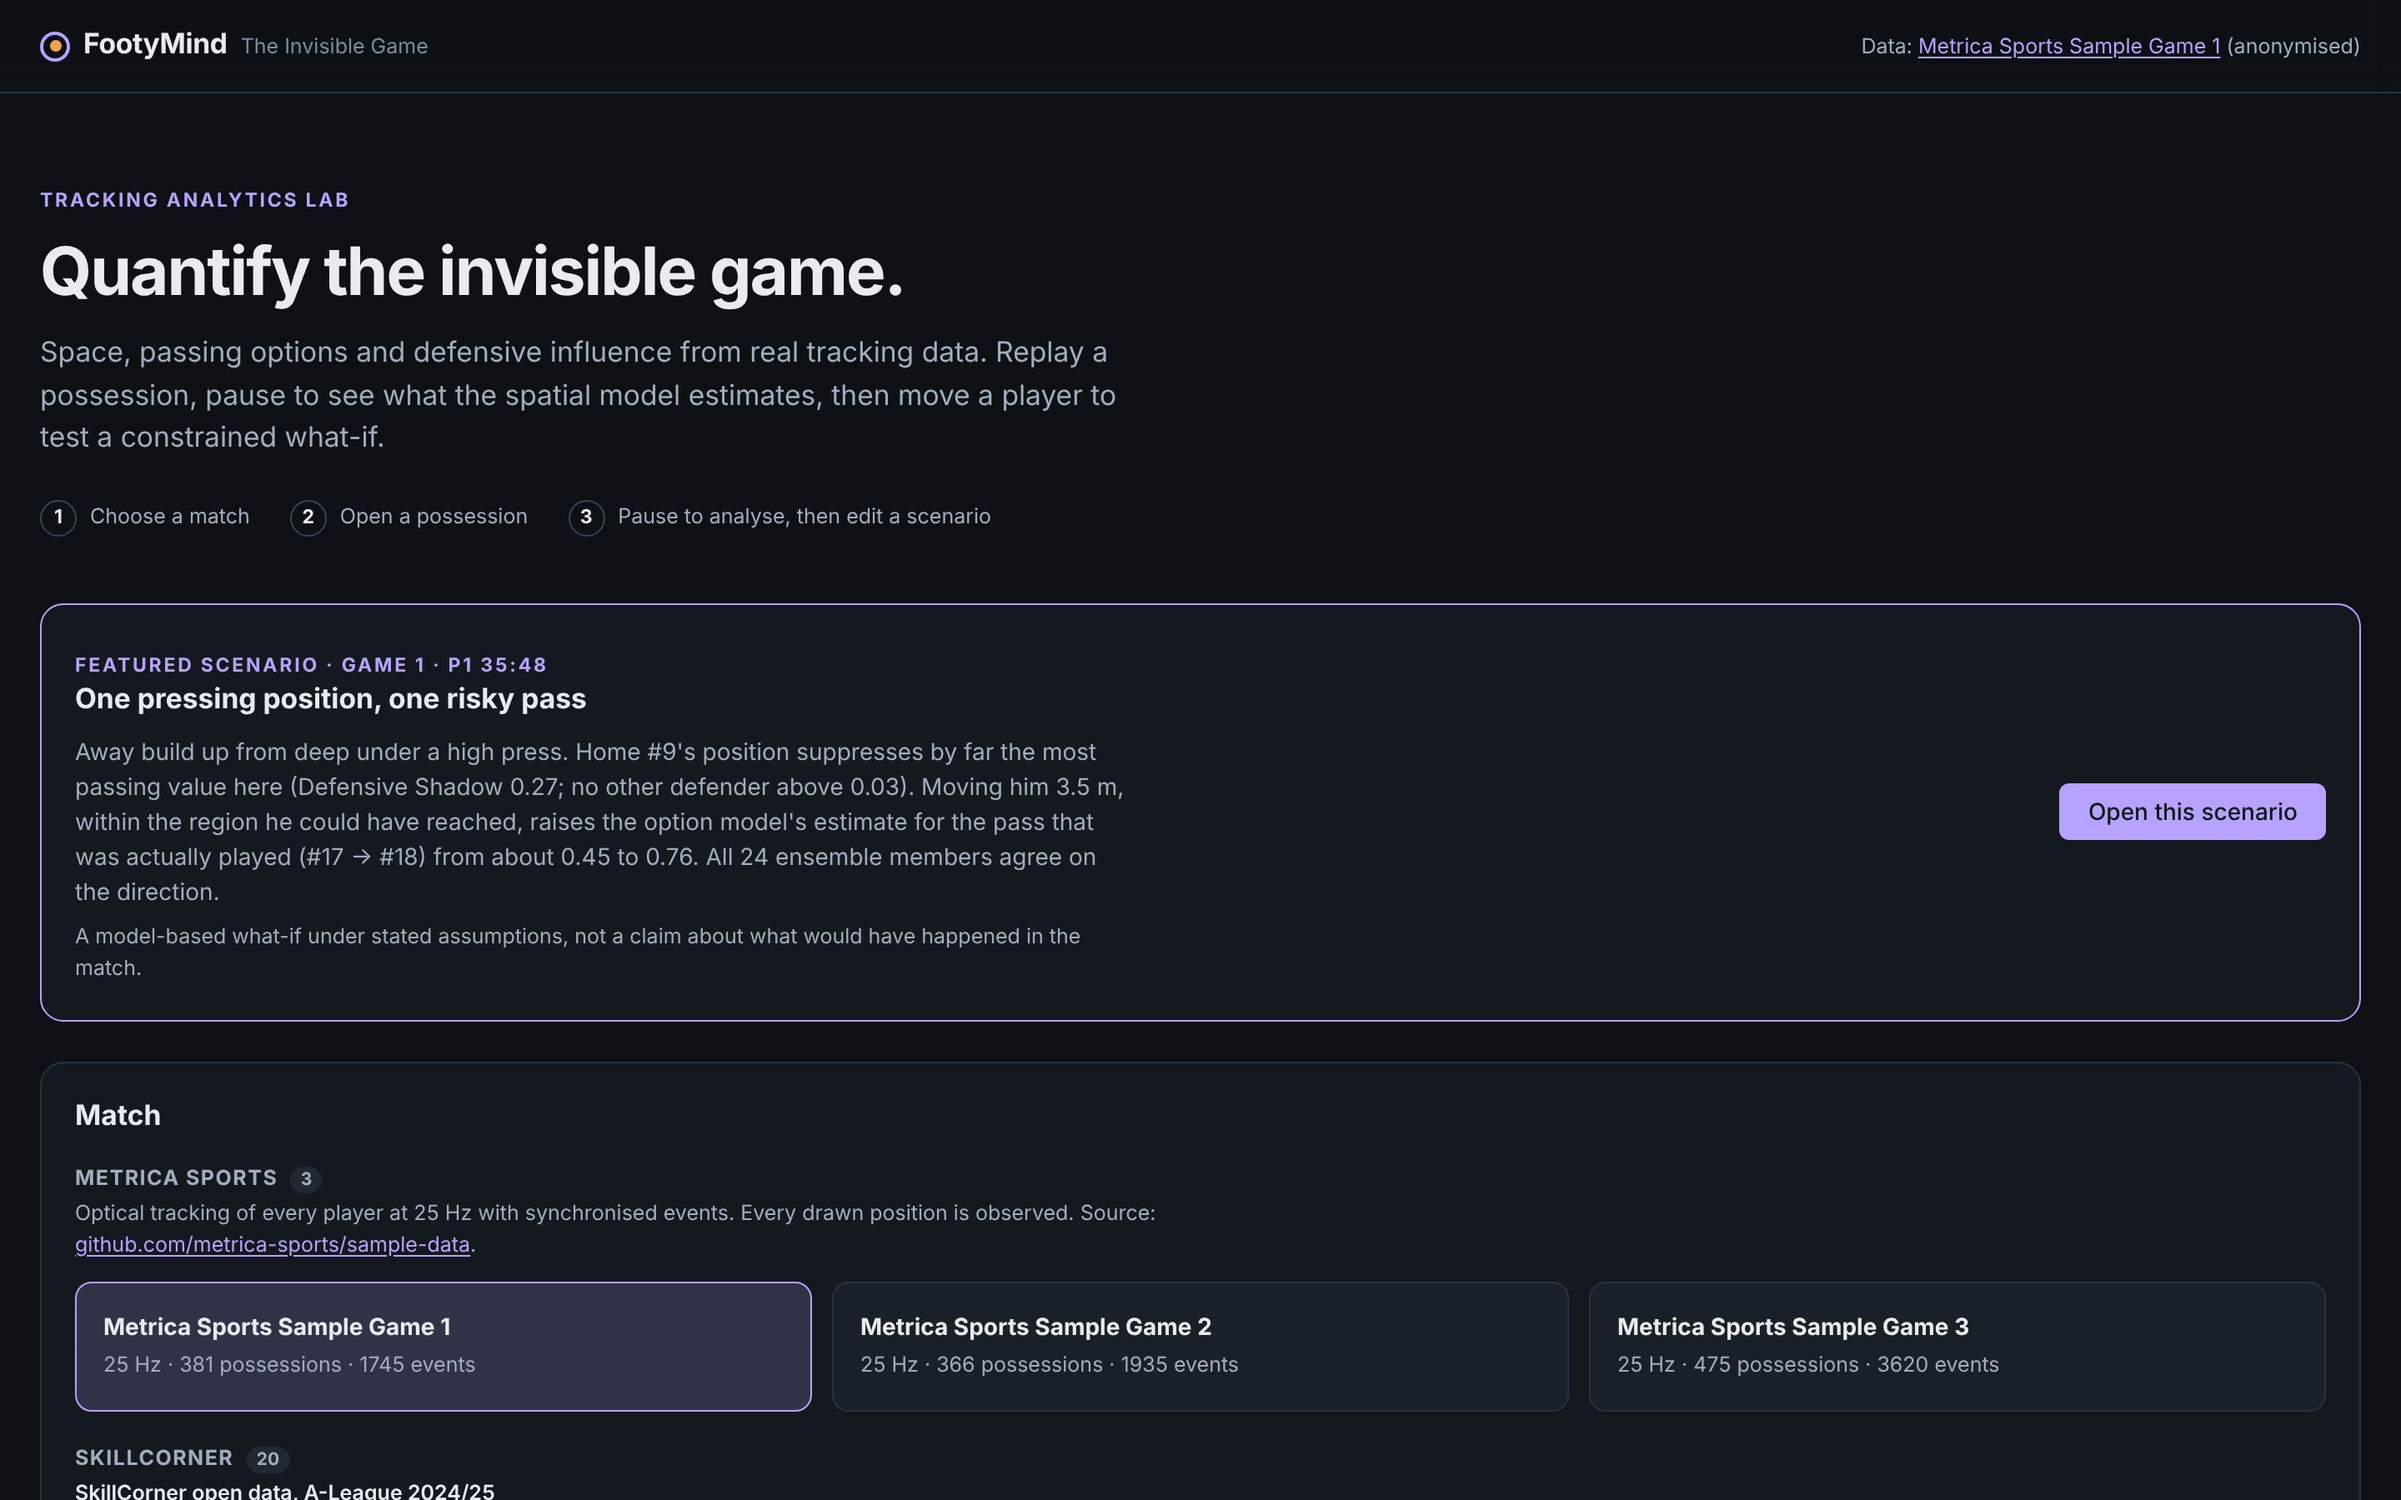
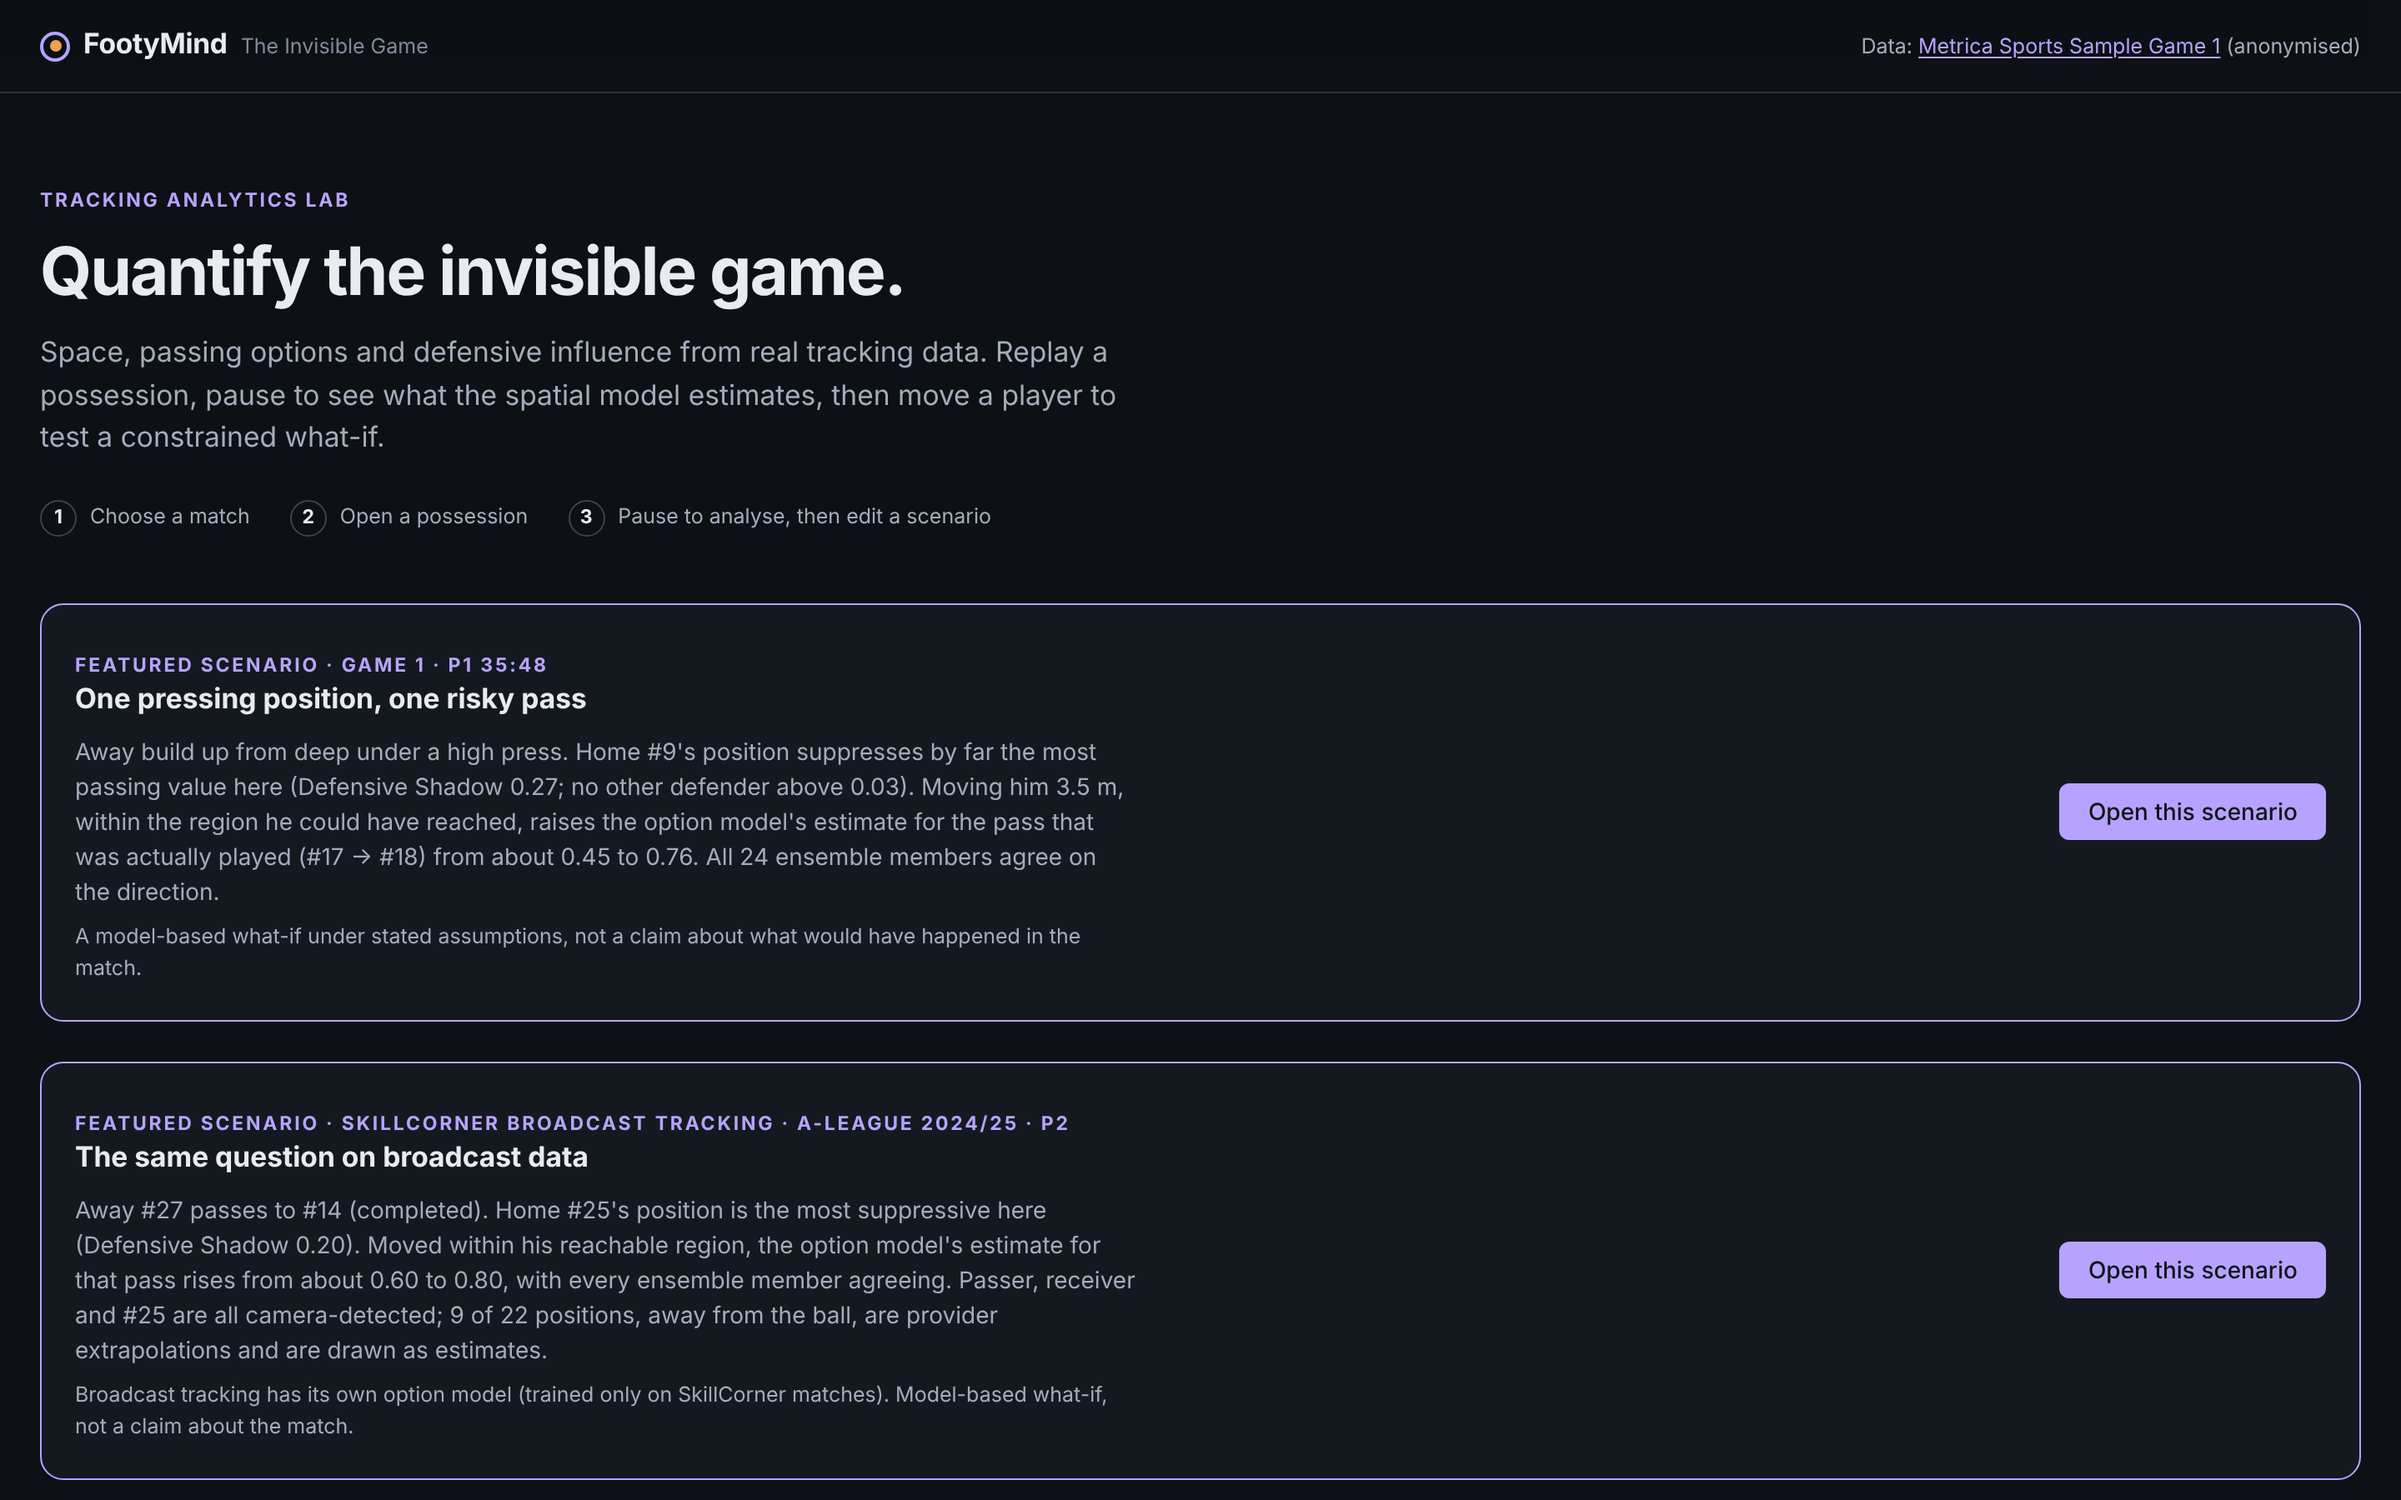
Add a verified broadcast-tracking featured scenario (SkillCorner) with e2e test; refresh screenshots

Changed region(s): [[0.0312, 0.7156, 0.5, 1.0], [0.6562, 0.8711, 0.8125, 0.9333], [0.8438, 0.8089, 0.9688, 0.8711]]

diff --git a/web/src/components/Landing.tsx b/web/src/components/Landing.tsx
@@ -17,8 +17,9 @@ interface Props {
 type TeamFilter = "all" | Team;
 
 /**
- * A curated, verified example (docs/RESEARCH.md, "Featured scenario"). Numbers quoted in the
- * card are from option model v1 and are recomputed live when the link is opened.
+ * Curated, verified examples (docs/RESEARCH.md, "Featured Possession Multiverse example").
+ * Numbers quoted in the cards are from the provider's option model v2 and are recomputed live
+ * when a link is opened.
  */
 const FEATURED = {
   matchId: "metrica-sample-1",
@@ -27,6 +28,15 @@ const FEATURED = {
     possessionId: "metrica-sample-1:p0163",
     frame: 53708,
     moves: [{ player_id: "home_9", x: 50.7, y: -8.75 }],
+  }),
+};
+
+const FEATURED_BROADCAST = {
+  href: routeHash({
+    name: "lab",
+    possessionId: "skillcorner-1899585:p0152",
+    frame: 39177,
+    moves: [{ player_id: "home_25", x: 22.46, y: -5.77 }],
   }),
 };
 
@@ -70,6 +80,28 @@ export function Landing({ matches, match, onSelectMatch, onOpenPossession }: Pro
           </p>
         </div>
         <a className="btn btn--primary featured-cta" href={FEATURED.href} data-testid="featured-link">
+          Open this scenario
+        </a>
+      </section>
+
+      <section className="panel featured" aria-labelledby="featured-broadcast-title">
+        <div className="featured-body">
+          <p className="eyebrow">Featured scenario · SkillCorner broadcast tracking · A-League 2024/25 · P2</p>
+          <h2 id="featured-broadcast-title" className="h-section">
+            The same question on broadcast data
+          </h2>
+          <p className="muted">
+            Away #27 passes to #14 (completed). Home #25&apos;s position is the most suppressive here (Defensive Shadow
+            0.20). Moved within his reachable region, the option model&apos;s estimate for that pass rises from about 0.60
+            to 0.80, with every ensemble member agreeing. Passer, receiver and #25 are all camera-detected; 9 of 22
+            positions, away from the ball, are provider extrapolations and are drawn as estimates.
+          </p>
+          <p className="small muted">
+            Broadcast tracking has its own option model (trained only on SkillCorner matches). Model-based what-if, not a
+            claim about the match.
+          </p>
+        </div>
+        <a className="btn btn--primary featured-cta" href={FEATURED_BROADCAST.href} data-testid="featured-broadcast-link">
           Open this scenario
         </a>
       </section>

diff --git a/web/e2e/flow.spec.ts b/web/e2e/flow.spec.ts
@@ -188,3 +188,14 @@ test("broadcast tracking: extrapolated SkillCorner positions are marked as estim
   await expect(page.getByTestId("estimated-note")).toContainText("provider extrapolations");
   expect(errors).toEqual([]);
 });
+
+test("featured broadcast scenario opens with detected key players and a robust change", async ({ page }) => {
+  await page.goto("/");
+  await page.getByTestId("featured-broadcast-link").click();
+  await expect(page).toHaveURL(/skillcorner-1899585%3Ap0152\?f=39177&move=home_25,22.46,-5.77/);
+  const deltas = page.getByTestId("option-deltas");
+  await expect(deltas).toBeVisible({ timeout: 30_000 });
+  await expect(deltas.locator("tbody tr").first()).toContainText("#14");
+  await expect(deltas.locator("tbody tr").first()).toContainText("robust");
+  await expect(page.getByText("Physically plausible edit")).toBeVisible();
+});

diff --git a/docs/CLAIMS_LEDGER.md b/docs/CLAIMS_LEDGER.md
@@ -35,6 +35,7 @@ Data: Metrica Sports sample data, Games 1–2 (C1–C10) and 1–3 (C11 onwards)
 | C24 | Provider-specific option model for SkillCorner (trained only on its 20 matches): LOMO log loss 0.359, AUC 0.802, ECE 0.023; Metrica frames keep the Metrica model; providers are never pooled | `src/footymind/spatial/option_model_v2_skillcorner.json` meta (code 2ea84bb) | `footymind train-option-model --provider skillcorner` | Selection bias for unchosen options; broadcast extrapolation | confirmed |
 | C25 | Run value on SkillCorner (2,974 completed passes): receiver minus others +0.004 [+0.002, +0.006]; top-1 ranking 0.092 vs chance 0.100 (availability 0.202, speed 0.231) | `experiments/results/run_value_validation_v1_skillcorner/results.json` (code f25e9fa) | same pre-specified protocol | broadcast extrapolations in counterfactual positions | confirmed (negative) |
 | C26 | Decision-time spatial drivers (SkillCorner, held-out permutation importance): defenders goal-side of the ball (+0.018) and attacking width (+0.014) lead the spatial features | `experiments/results/pass_outcome_skillcorner_v1_importance/results.json` (code 1bce367) | 20-fold LOMO, 10 repeats | correlated features: ranking only | confirmed |
+| C27 | Broadcast featured scenario (SkillCorner 1899585, frame 39177): moving home_25 (reachable) changes the SkillCorner option-model estimate for the played pass away_27→away_14 from 0.60 to 0.80; 24/24 members agree; key players detected | live API; e2e `featured broadcast scenario` | option model v2 (SkillCorner), ensemble 24 | Curated by search (selection effect); 9/22 positions extrapolated | confirmed (illustrative only) |
 | C10 | Frame analysis latency is about 70 ms warm; a scenario with a 24-member ensemble takes about 0.3 s; possession replay takes 29 ms | manual timing on the development container (4 vCPU) | single measurements | Not a benchmark suite; hardware-dependent | indicative only |
 
 ## Not claimed

diff --git a/docs/RESEARCH.md b/docs/RESEARCH.md
@@ -471,6 +471,17 @@ sign were kept. The example below has the largest delta *on the pass that was ac
 This is a model-based what-if. It is consistent with the press making that pass risky, but
 it is not evidence of what would have happened.
 
+**Broadcast example (SkillCorner, verified 2026-11-13).** The search covered 96 sampled
+passes in 8 SkillCorner matches, kept only frames where the passer, receiver and moved
+defender are *detected* and at least 70% of players within 25 m of the ball are detected, and
+then required a supported, sign-robust scenario. Selected: `skillcorner-1899585`, P2, frame
+39177 (possession p0152). away_27 → away_14 is completed. home_25 has shadow 0.20. Moving him
+to (22.46, −5.77), which is reachable and supported, takes the SkillCorner option model's
+estimate for the pass from 0.60 [0.55–0.62] to 0.80 [0.78–0.82], with 24/24 members agreeing.
+The API warns that 9 of 22 positions (away from the ball) are extrapolations. Deep link:
+`#/lab/skillcorner-1899585%3Ap0152?f=39177&move=home_25,22.46,-5.77`. Selection effects apply
+as for the Metrica example.
+
 ## Prior art and references
 * Spearman, W., Basye, A., Dick, G., Hotovy, R., Pop, P. (2017). *Physics-Based Modeling of Pass Probabilities in Soccer.* MIT Sloan Sports Analytics Conference.
 * Spearman, W. (2018). *Beyond Expected Goals.* MIT Sloan SAC. (Pitch control; off-ball scoring opportunity.)
